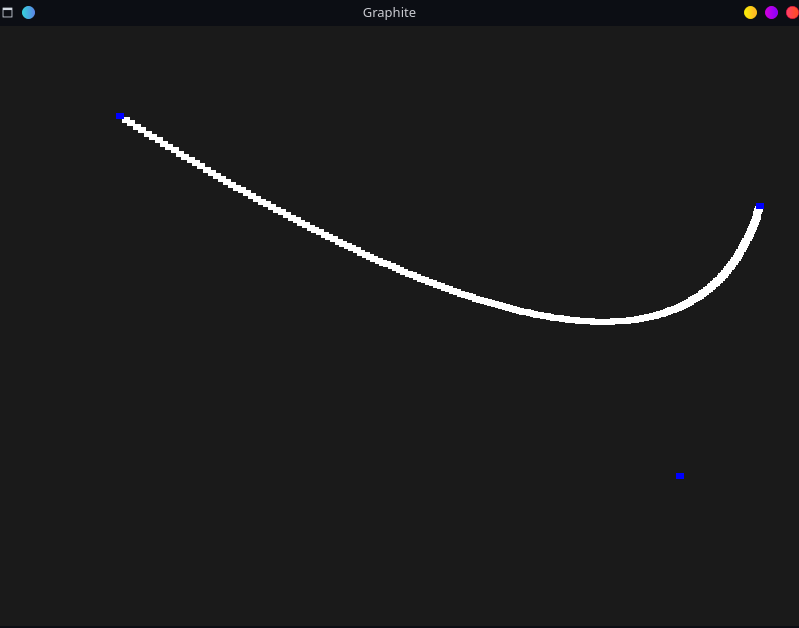
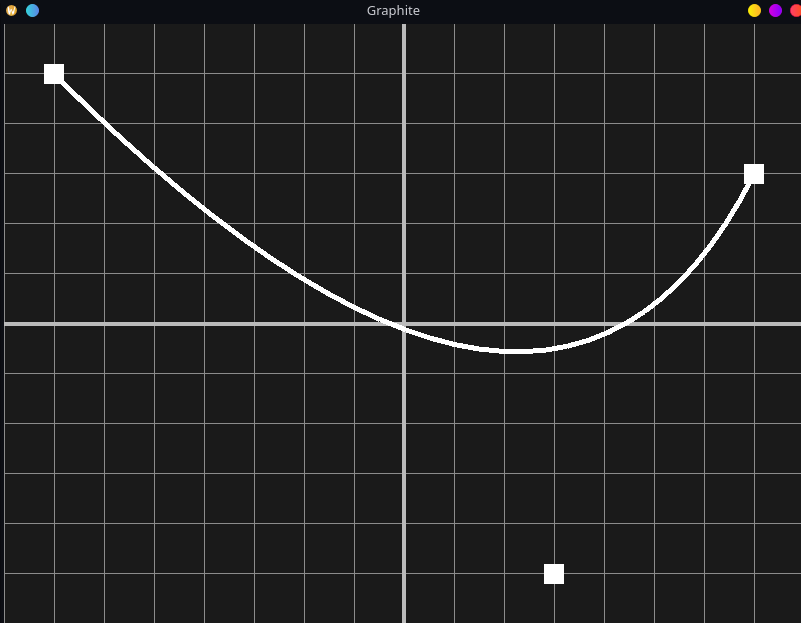
Update Examples and Size of Line

diff --git a/Examples/Lines/Graphite.cpp b/Examples/Lines/Graphite.cpp
@@ -11,9 +11,9 @@
 
 
 class Script : ScriptInterface{
-  Graphite::Math::Point control_points[3] = {{{-400, 400}, {0.0, 0.0, 1.0}}, 
-                                             {{200, 0}, {0.0, 0.0, 1.0}}, 
-                                             {{400, -300}, {0.0, 0.0, 1.0}}};
+  Graphite::Math::Point control_points[3] = {{{-4, 4}, 0.2f, {0.0, 0.0, 1.0}}, 
+                                             {{0, -5}, 0.2f, {0.0, 0.0, 1.0}}, 
+                                             {{4, 3}, 0.2f, {0.0, 0.0, 1.0}}};
 
   Graphite::Math::Plot2D plot;
 
@@ -21,8 +21,12 @@ class Script : ScriptInterface{
 
 
   void Init(){
-    plot.line_cell["l_1"] = Graphite::Math::Line(control_points[0].getPos(), control_points[1].getPos());
-    plot.line_cell["l_2"] = Graphite::Math::Line(control_points[1].getPos(), control_points[2].getPos());
+    plot.point_cell["cp_1"] = control_points[0];
+    plot.point_cell["cp_2"] = control_points[1];
+    plot.point_cell["cp_3"] = control_points[2];
+
+    plot.line_cell["l_1"] = Graphite::Math::Line(control_points[0].getPos(), control_points[1].getPos(), 0.1f);
+    plot.line_cell["l_2"] = Graphite::Math::Line(control_points[1].getPos(), control_points[2].getPos(), 0.1f);
   };
 
   void Update(){

diff --git a/Examples/Curve Bezier/Graphite.cpp b/Examples/Curve Bezier/Graphite.cpp
@@ -9,13 +9,13 @@
 
 #include <math.h>
 
-#define SAMPLES 500
+#define SAMPLES 30
 
 
 class Script : ScriptInterface{
-  Graphite::Math::Point control_points[3] = {{{-400, 400}, {0.0, 0.0, 1.0}}, 
-                                             {{700, -80}, {0.0, 0.0, 1.0}}, 
-                                             {{500, 300}, {0.0, 0.0, 1.0}}};
+  Graphite::Math::Point control_points[3] = {{{-7, 5}, 0.2f, {0.0, 0.0, 1.0}}, 
+                                             {{3, -5}, 0.2f, {0.0, 0.0, 1.0}}, 
+                                             {{7, 3}, 0.2f, {0.0, 0.0, 1.0}}};
 
   Graphite::Math::Plot2D plot;
 
@@ -47,11 +47,19 @@ class Script : ScriptInterface{
     plot.point_cell["cp_2"] = control_points[1];
     plot.point_cell["cp_3"] = control_points[2]; 
 
-    for(int i = 0; i < SAMPLES; i++){
+    std::array<float,2> last_pos = {0, 0};
+    bool init = true;
+
+    for(int i = 0; i <= SAMPLES; i++){
       auto P = bezier((i * 1.0f) / SAMPLES);
-      plot.point_cell[std::to_string(i)] = Graphite::Math::Point(P);
+
+      if(!init){
+        plot.line_cell[std::to_string(i)] = Graphite::Math::Line(last_pos, P, 0.1f);
+      };
+
+      last_pos = P;
+      init = false;
     };
-    
   };
 
   void Update(){

diff --git a/Examples/Sin/Graphite.cpp b/Examples/Sin/Graphite.cpp
@@ -14,7 +14,7 @@
 
 class Script : ScriptInterface{
   Graphite::Math::Plot2D plot;
-  float f(float x) { return 300 * sin(x * M_PI * 2); };
+  float f(float x) { return 5 * sin((x * M_PI * 2)); };
 
 
 
@@ -22,10 +22,19 @@ class Script : ScriptInterface{
 
 
   void Init(){
+    std::array<float,2> last_pos = {0, 0};
+    bool init = true;
+
     for(int i = 0; i < SAMPLES; i++){
-      float x = ((i/(SAMPLES - 1.0f) * 2) - 1) * 600;
+      float x = ((i/(SAMPLES - 1.0f) * 2) - 1) * 7;
       float y = f(x);
-      plot.point_cell[std::to_string(i)] = Graphite::Math::Point({x, y});
+
+      if(!init){
+        plot.line_cell[std::to_string(i)] = Graphite::Math::Line(last_pos, {x, y}, 0.1f);
+      };
+
+      last_pos = {x, y};
+      init = false;
     };
   };
 

diff --git a/Graphite/Resources/Math/Functions/Line/Line.h b/Graphite/Resources/Math/Functions/Line/Line.h
@@ -15,14 +15,19 @@ private:
   std::array<float, 2> pos2 = {0.0f, 0.0f};
   std::array<float, 3> color = {1.0f, 1.0f, 1.0f};
 
+  float size = 1.0f;
+
   bool updated = false;
 
 public:
-  Line(std::array<float, 2> pos1 = {0.0f, 0.0f}, std::array<float, 2> pos2 = {0.0f, 0.0f}, std::array<float, 3> color = {1.0f, 1.0f, 1.0f});
+  Line(std::array<float, 2> pos1 = {0.0f, 0.0f}, std::array<float, 2> pos2 = {0.0f, 0.0f}, float size = 1.0f, std::array<float, 3> color = {1.0f, 1.0f, 1.0f});
   ~Line();
 
   std::pair<std::array<float, 2>, std::array<float, 2>> getPos();
   void setPos(std::array<float, 2> pos1, std::array<float, 2> pos2);
+
+  float getSize();
+  void setSize(float size);
 
   std::array<float, 3> getColor();
   void setColor(std::array<float, 3> color);

diff --git a/Graphite/Resources/Math/Functions/Line/Line.cpp b/Graphite/Resources/Math/Functions/Line/Line.cpp
@@ -7,8 +7,8 @@
 #include "Line.h"
 
 
-Graphite::Math::Line::Line(std::array<float, 2> pos1, std::array<float, 2> pos2, std::array<float, 3> color)
-  : pos1(pos1), pos2(pos2), color(color), updated(false) {};
+Graphite::Math::Line::Line(std::array<float, 2> pos1, std::array<float, 2> pos2, float size, std::array<float, 3> color)
+  : pos1(pos1), pos2(pos2), size(size), color(color), updated(false) {};
 
 
 
@@ -38,6 +38,26 @@ void Graphite::Math::Line::setPos(std::array<float, 2> pos1, std::array<float, 2
   this->pos1 = pos1;
   this->pos2 = pos2;
   updated = false;
+};
+
+
+
+
+
+
+
+float Graphite::Math::Line::getSize(){
+  return size;
+};
+
+
+
+
+
+
+
+void Graphite::Math::Line::setSize(float size){
+  this->size = size;
 };
 
 

diff --git a/Examples/Plots/Graphite.cpp b/Examples/Plots/Graphite.cpp
@@ -16,9 +16,12 @@ class Script : ScriptInterface{
 
 
   void Init(){
-    plot.point_cell["1"] = Graphite::Math::Point({-20.0f, 2.0f});
-    plot.point_cell["2"] = Graphite::Math::Point({0.0f, -50.0f});
-    plot.point_cell["3"] = Graphite::Math::Point({5.0f, 20.0f});
+    plot.point_cell["1"] = Graphite::Math::Point({-2.0f, 2.0f}, 0.2f);
+    plot.point_cell["2"] = Graphite::Math::Point({1.0f, -5.0f}, 0.2f);
+    plot.point_cell["3"] = Graphite::Math::Point({5.0f, 2.0f}, 0.2f);
+
+    for(auto el : plot.point_cell)
+      plot.line_cell[el.first] = Graphite::Math::Line({0, 0}, plot.point_cell[el.first].getPos(), 0.1f);
   };
 
   void Update(){

diff --git a/Graphite/Resources/Math/Plots/Plot2D/Plot2D.cpp b/Graphite/Resources/Math/Plots/Plot2D/Plot2D.cpp
@@ -46,7 +46,7 @@ void Graphite::Math::Plot2D::drawPoint(const std::string& cell_name, Graphite::M
 void Graphite::Math::Plot2D::drawLine(const std::string& cell_name, Graphite::Math::Line line){
   
   if(!line.getUpdatedState()){
-    float thickness = 5.0f;
+    float thickness = line.getSize();
 
     std::pair<std::array<float, 2>, std::array<float, 2>> pos = line.getPos();
     auto& p0 = pos.first;

diff --git a/Readme.md b/Readme.md
@@ -34,6 +34,10 @@ Who it's for:
     <td><img src="docs/ss/Bezier.png" alt="Bezier"/></td>
     <td><img src="docs/ss/Sin.png" alt="Sin"/></td>
   </tr>
+  <tr>
+    <td><img src="docs/ss/Plots.png" alt="Plots"/></td>
+    <td><img src="docs/ss/Lines.png" alt="Lines"/></td>
+  </tr>
 </table>
 
 
@@ -42,6 +46,7 @@ Who it's for:
 ## Table of Contents
 - [About](#about)
 - [Screenshots](#screenshots)
+- [Table of Contents](#table-of-contents)
 - [Installation](#installation)
 - [Usage](#usage)
   - [Run](#run)
@@ -51,7 +56,7 @@ Who it's for:
 - [Prerequisites](#prerequisites)
 - [Versions and features](#versions-and-features)
 - [Other Docs](#other-docs)
-- [Cat 🐱](#cat)
+- [Cat 🐱](#cat-)
 
 
 
